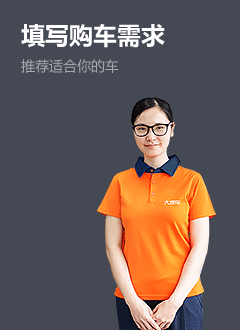
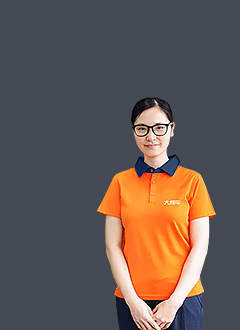
心愿卡页面 样式调整

Changed region(s): [[0.0875, 0.0606, 0.7, 0.1515], [0.0875, 0.1818, 0.4958, 0.2424]]

diff --git a/assets/css/wish-card/wish-fill-form.less b/assets/css/wish-card/wish-fill-form.less
@@ -19,16 +19,36 @@
     opacity: 0;
     .tst(width 400ms ease-out, opacity 300ms ease-out;);
 
+    
+    &.not-fill-yet{
+        width: 25%;
+        opacity: 1;
+        .dialog-item{
+            width: 0;
+            overflow: hidden;
+        }
+        .dialog-item.carBanner{
+            // width: 100%;
+            width: 295px;
+        }
+
+        // #J_xuqiu_cancel{
+        //     display: none;
+        // }
+    }
     &.active{
         width: 100%;
         opacity: 1;
         overflow: visible;
         border: 1px solid #CCCCCC;
         .tst(opacity 400ms ease 100ms, width 500ms ease;);
-    }
-    &.not-fill-yet{
-        #J_xuqiu_cancel{
-            display: none;
+        
+        .dialog-item{
+            width: 25%;
+            overflow: visible;
+        }
+        .dialog-item.carBanner{
+            width: 25%;
         }
     }
 
@@ -53,13 +73,50 @@
             }
         }
     }
+
     .carBanner{
         float: left;
         height: @cardH;
         margin-top: -1px;
-        background:url('../images/index/rss-lft-banner.png?t=20141225') no-repeat;
+        padding-left: 20px;
+        color: #fff;
+        background:url('../images/index/rss-lft-banner.png?t=201150105') no-repeat;
         background-color: #454954;
         background-position: 50% 100%;
+
+        .tit,
+        .sub-tit,
+        .rec-text{
+            white-space: nowrap;
+        }
+
+        .tit{
+            margin: 0;
+            padding-top: 24px;
+            font-size: 20px;
+            line-height: 24px;
+        }
+        .sub-tit{
+            margin-top: 13px;
+            margin-bottom: 112px;
+            font-size: 14px;
+            line-height: 18px;
+            color: rgba(255,255,255,0.5);
+        }
+        .rec-text{
+            font-size: 14px;
+            line-height: 24px;
+        }
+        .btn-go-fill{
+            width: 100px;
+            height: 40px;
+            margin-top: 16px;
+            line-height: 36px;
+            text-align: center;
+            border: 2px solid #fff;
+            border-radius: 3px;
+            background-color: transparent;
+        }
     }
     .carBudget {
         margin-bottom: 30px;

diff --git a/assets/js/wish-card/wish-card-edit.js b/assets/js/wish-card/wish-card-edit.js
@@ -211,6 +211,7 @@ function(AddSeries, CustomSelect, Tool){
     var _event = {
         bind: function(){
             //编辑订阅卡片
+            $(".btn-go-fill").click(_event.startEdit);
             $("#J_card_edit").click(_event.startEdit);
             //去掉填写的需求
             $("#J_xuqiu_cancel").click(_event.cacelEdit);
